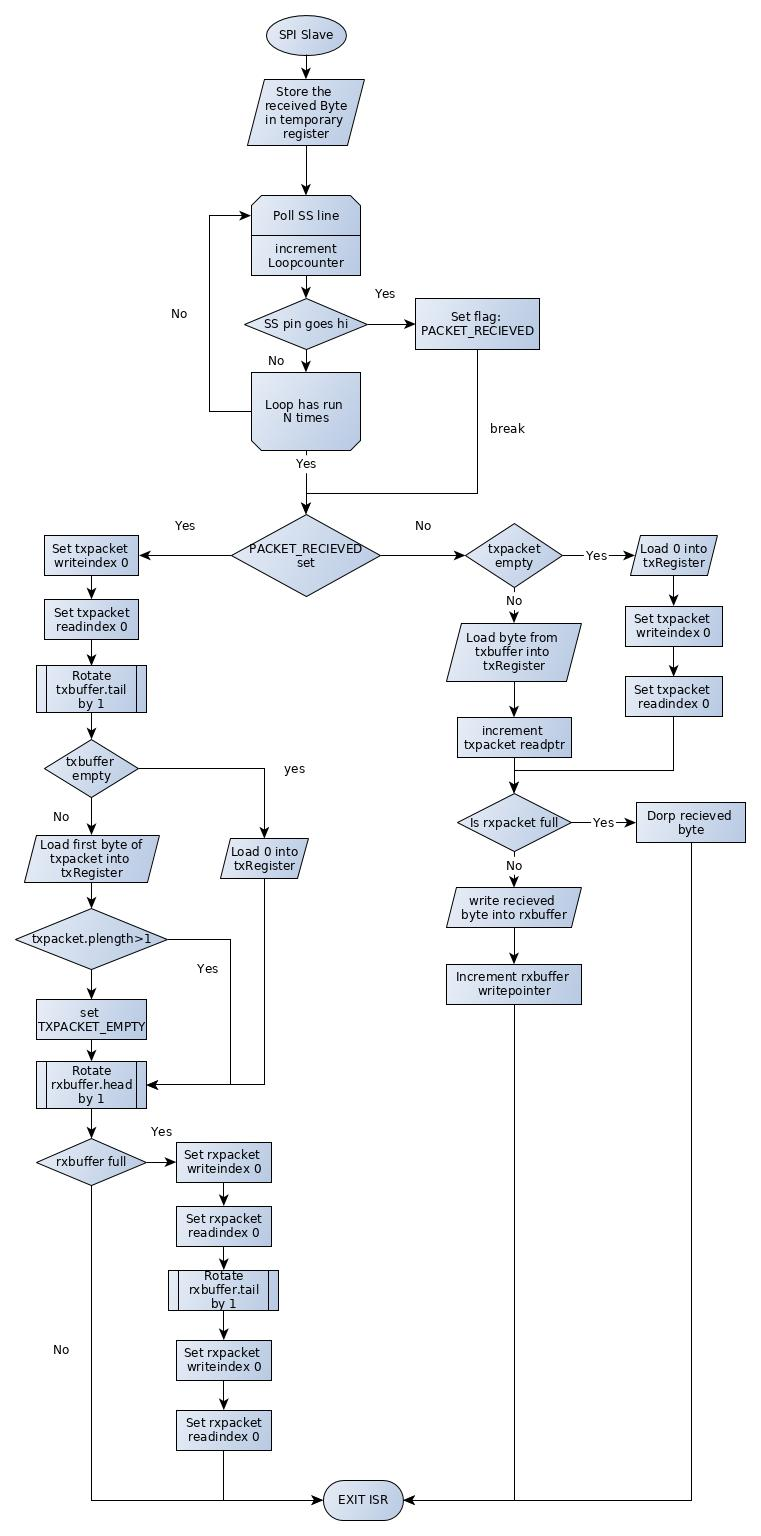
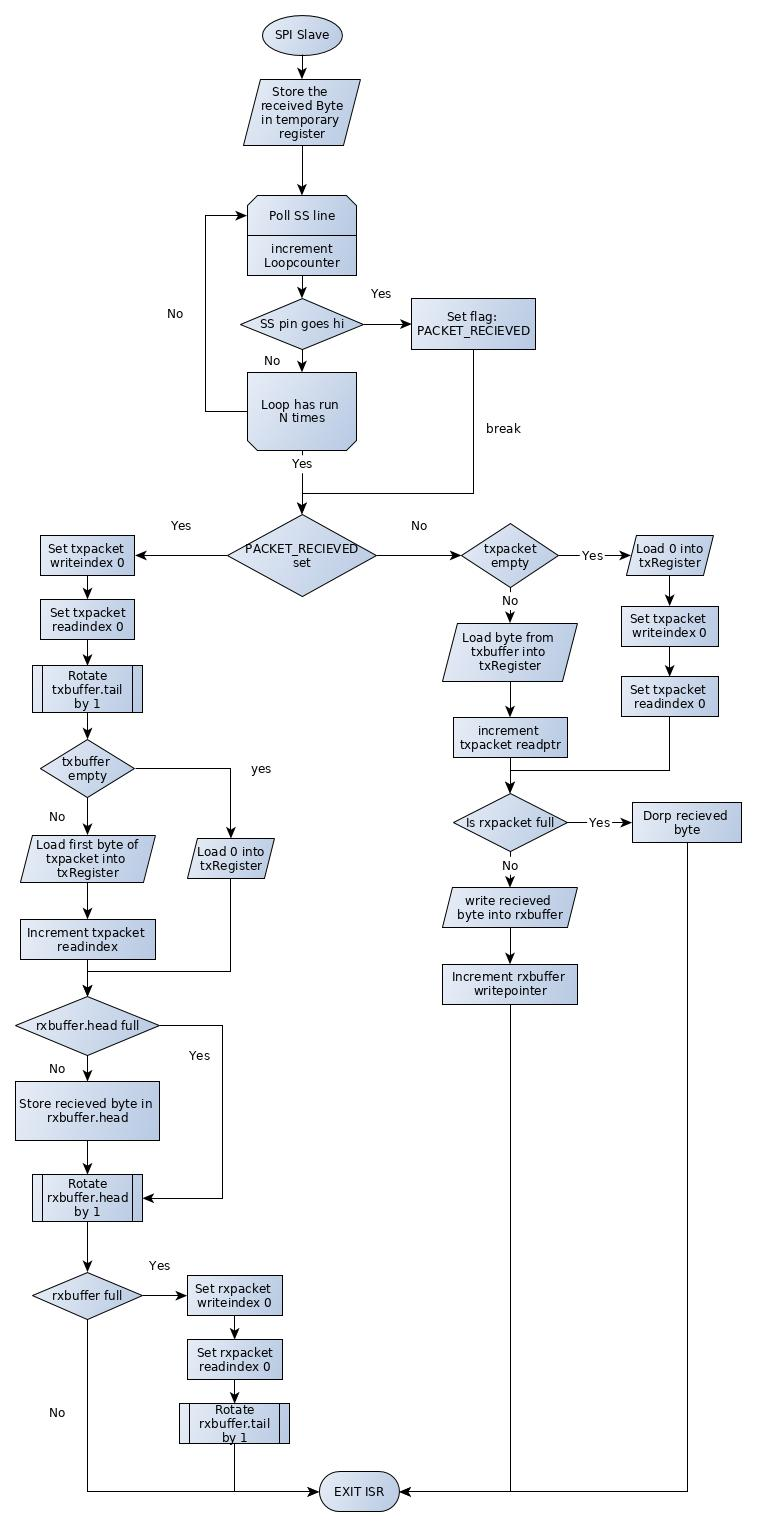
FIX: Went over the documentation of the ISR's. Fixed a few bugs in the slave ISR. Updated documentation accordingly

diff --git a/firmware/armspi.c b/firmware/armspi.c
@@ -706,6 +706,7 @@ void spi_irq_master_handler(volatile struct spi *spimodule){
 	spimodule->rxbuffer.head->contents[spimodule->rxbuffer.head->writeindex] = SPI_DR(spimodule->spi_hardware);
 	spimodule->rxbuffer.head->writeindex++;
 	if(spimodule->status & SPI_PACKET_BEING_SENT){
+		// We are in the middle of sending a packet so we continue to send it
 		spi_write(spimodule->spi_hardware, (uint16_t)(spimodule->txbuffer.tail->contents[spimodule->txbuffer.tail->readindex]));
 		spimodule->txbuffer.tail->readindex++;
 		if(spimodule->txbuffer.tail->readindex < spimodule->txbuffer.tail->writeindex){
@@ -719,6 +720,7 @@ void spi_irq_master_handler(volatile struct spi *spimodule){
 		}
 	}
 	else{
+		// We have to switch to the next packet (if one is in the buffer) and send it, for we have fully sent the last
 		set_SS_pin_high(spimodule->txbuffer.tail->slave);
 		increment_bufferpointer(&(spimodule->rxbuffer.head), &(spimodule->rxbuffer));
 		increment_bufferpointer(&(spimodule->txbuffer.tail), &(spimodule->txbuffer));
@@ -745,8 +747,10 @@ void spi_irq_master_handler(volatile struct spi *spimodule){
 
 void spi_irq_slave_handler(volatile struct spi *spimodule){
 	uint8_t tmprxdata = SPI_DR(spimodule->spi_hardware);
-	spimodule->status &= SPI_PACKET_RECIEVED;
+	spimodule->status &= ~SPI_PACKET_RECIEVED;
+	// Listen for the SS linte to go up if it does we have recieved a packet
 	for(uint8_t i=0; i>=MAXLOOP; i++){
+	// If the device is in slave mode it will always listen on the SS pin line
 		if(gpio_get(spimodule->connected_slaves[0].port, spimodule->connected_slaves[0].pin)){
 			spimodule->status |= SPI_PACKET_RECIEVED;
 			break;
@@ -756,12 +760,18 @@ void spi_irq_slave_handler(volatile struct spi *spimodule){
 		spimodule->txbuffer.tail->writeindex = 0;
 		spimodule->txbuffer.tail->readindex = 0;
 		increment_bufferpointer(&(spimodule->txbuffer.tail), &(spimodule->txbuffer));
+		// If the transmission buffer is empty send back 0s
 		if(spimodule->txbuffer.tail == spimodule->txbuffer.head){
 			spi_write(spimodule->spi_hardware, 0);
 		}
 		else{
 			spi_write(spimodule->spi_hardware, spimodule->txbuffer.tail->contents[spimodule->txbuffer.tail->readindex]);
 			spimodule->txbuffer.tail->readindex++;
+		}
+		// store the recieeved byte before incrementing to the next recieved packet
+		if(spimodule->rxbuffer.head->writeindex < PACKETLENGTH){
+			spimodule->rxbuffer.head->writeindex = tmprxdata;
+			spimodule->rxbuffer.head->writeindex++;
 		}
 		increment_bufferpointer(&(spimodule->rxbuffer.head), &(spimodule->rxbuffer));
 		if(spimodule->rxbuffer.head == spimodule->rxbuffer.tail){

diff --git a/firmware/armspi.h b/firmware/armspi.h
@@ -185,26 +185,26 @@
 
 // TODO collect the RCC registers for the other SPI_Modules in bigger chips
 #define SPI_3_SLAVE_0_PORT GPIO_BANK_SPI3_NSS
-#define SPI_3_SLAVE_0_RCC 
+#define SPI_3_SLAVE_0_RCC
 #define SPI_3_SLAVE_0_PIN GPIO_SPI3_NSS
 //#define SPI_3_SLAVE_1_PORT
 //#define SPI_3_SLAVE_1_RCC
 //#define SPI_3_SLAVE_1_PIN
 
 #define SPI_4_SLAVE_0_PORT GPIO_BANK_SPI4_NSS
-#define SPI_4_SLAVE_0_RCC 
+#define SPI_4_SLAVE_0_RCC
 #define SPI_4_SLAVE_0_PIN GPIO_SPI4_NSS
 //#define SPI_3_SLAVE_0_PORT
 //#define SPI_3_SLAVE_0_PIN
 
 #define SPI_5_SLAVE_0_PORT GPIO_BANK_SPI5_NSS
-#define SPI_5_SLAVE_0_RCC 
+#define SPI_5_SLAVE_0_RCC
 #define SPI_5_SLAVE_0_PIN GPIO_SPI5_NSS
 //#define SPI_4_SLAVE_0_PORT
 //#define SPI_4_SLAVE_0_PIN
 
 #define SPI_6_SLAVE_0_PORT GPIO_BANK_SPI6_NSS
-#define SPI_6_SLAVE_0_RCC 
+#define SPI_6_SLAVE_0_RCC
 #define SPI_6_SLAVE_0_PIN GPIO_SPI6_NSS
 //#define SPI_5_SLAVE_0_PORT
 //#define SPI_5_SLAVE_0_PIN
@@ -299,7 +299,6 @@ struct spi {
 	uint32_t spi_hardware;
 	const struct hardware_pin *connected_slaves;
 };
-
 
 void init_spi(void);
 uint8_t write_spi_packet(volatile struct spi *spimodule, uint8_t *data, uint8_t size,uint8_t slave_nr);

diff --git a/README.md b/README.md
@@ -60,6 +60,10 @@ The Library needs some information at compiletime:
     The Module name here corresponds to the hardware interface of the number (modulenumber +1).
     It includes the default pins for that device as defined in the libopencm3 for that device.
 
+##Usage
+The spimodules named spi_module_[0-5] must be declared as external variables as they are decared inside the armspi.c file.
+After that the fuctions of the module can be used as normal.
+
 ## The handling of Slaves
 This library is generally capable of handling multiple Slaves.
 Every module points to an array of hardware_pin structs, that are the SS-Pins that are driven.
